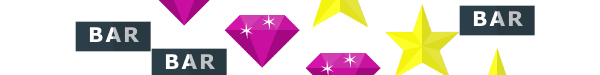
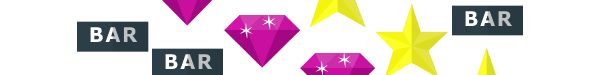
Animation works. Resized Images in Design and changed Animation.Y coordinates in animation(). Add animationFrame back to 0 and AnimationReelPosition.Y back to 65 in Spinnng. Now after Spinning() the animation and random reel image resets

diff --git a/NewCleanSlots/Game1.cs b/NewCleanSlots/Game1.cs
@@ -129,11 +129,11 @@ namespace NewCleanSlots
 
             spriteBatch.Begin();
             //image,postion,rectangle,color,rotation,origin,scale,effect,depth
-          //  spriteBatch.Draw(FourReelsBackground, FourReelsBackgroundPosition, null, Color.White, 0f, Vector2.Zero, 0.9f, SpriteEffects.None, 0.7f);
+            spriteBatch.Draw(FourReelsBackground, FourReelsBackgroundPosition, null, Color.White, 0f, Vector2.Zero, 0.9f, SpriteEffects.None, 0.7f);
           // spriteBatch.Draw(TotalCreditsBackground, TotalCreditsBackgroundPosition, null, Color.White, 0f, Vector2.Zero, 0.9f, SpriteEffects.None, 0f);
 
-            spriteBatch.Draw(AnimationReels, AnimationReelsPosition, new Rectangle(animationFrame * 75, 0, 75, 75), new Color(Color.White,0.8f),
-                0f, Vector2.Zero, 1.0f, SpriteEffects.None, 0.5f);
+            spriteBatch.Draw(AnimationReels, AnimationReelsPosition, new Rectangle(animationFrame * 75, 0, 75, 75), new Color(Color.White,1.0f),
+                0f, Vector2.Zero, 2.0f, SpriteEffects.None, 0.5f);
            // spriteBatch.Draw(Reel1, Reel1Position, null, Color.White, 0f, Vector2.Zero, 1.0f, SpriteEffects.None, 0.6f);
             
             spriteBatch.End();
@@ -149,11 +149,12 @@ namespace NewCleanSlots
 
             //sprite continues to move down and then jumps to the top
             AnimationReelsPosition.Y += 5;
-            if (AnimationReelsPosition.Y >= 175) //>= GraphicsDevice.Viewport.Height)
+            if (AnimationReelsPosition.Y >= 120) //>= GraphicsDevice.Viewport.Height). If the Y coordinats of animation goes below 120...
                 // spritePosition.Y = 0; 
                 //sprite jumps to the negative position based on the height of the sprite
                 //negative bc it above the 0 position, above the screen
-                AnimationReelsPosition.Y = 100; //= -spriteSheet.Height;
+                AnimationReelsPosition.Y = 65; //= -spriteSheet.Height;.....the Y coordinates of the animation jumps back up to 65
+          
 
             animationFrame += 1;
             if (animationFrame >= 8)
@@ -166,6 +167,8 @@ namespace NewCleanSlots
         
         public void Spinning()
         {
+            animationFrame = 0; //resets the animationFrame back to 0
+            AnimationReelsPosition.Y = 65; //resets the Y coordinats of the animation. Change later so Random reel image displays closer to center
 
            Random rand = new Random(); //initiates random class
             int num1 = rand.Next(1, 4); //assigns num with a random number between 1-3. random # is stored in num
